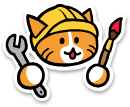
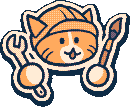
Now using the palette colors for everything

diff --git a/public/style.css b/public/style.css
@@ -1,5 +1,13 @@
 /* Various variables */
 :root {
+	--black: #0d2b45;
+	--col01: #203c56;
+	--col02: #544e68;
+	--col03: #8d697a;
+	--col04: #d08159;
+	--col05: #ffaa5e;
+	--col06: #ffd4a3;
+	--white: #ffecd6;
 }
 
 
@@ -18,12 +26,12 @@ html, body {
 }
 
 body {
-  background-image: url("/media/backtile.png");
-  background-repeat: repeat;
-  background-size: 16px;
-  image-rendering: crisp-edges;
-  color: black;
-  font-family: Verdana;
+	background-image: url("/media/backtile.png");
+	background-repeat: repeat;
+	background-size: 16px;
+	image-rendering: crisp-edges;
+	color: var(--black);
+	font-family: Verdana;
 }
 
 footer {
@@ -43,6 +51,8 @@ footer {
 }
 
 #page-palette {
+	width: 8px;
+
 	position: fixed;
 	left: 0;
 	top: 0;
@@ -51,7 +61,16 @@ footer {
 	display: flex;
 	flex-direction: column;
 
-	border-right: solid black 2px;
+	background: linear-gradient(to bottom, var(--black) 12.5%,
+		var(--col01) 12.5%, var(--col01) 25%,
+		var(--col02) 25%, var(--col02) 37.5%,
+		var(--col03) 37.5%, var(--col03) 50%,
+		var(--col04) 50%, var(--col04) 62.5%,
+		var(--col05) 62.5%, var(--col05) 75%,
+		var(--col06) 75%, var(--col06) 87.5%,
+		var(--white) 87.5%
+	);
+	border-right: solid var(--black) 2px;
 }
 
 .palette-color {
@@ -60,17 +79,19 @@ footer {
 }
 
 #wip-sep {
-	border: solid 2px gray;
-	border-right-color: cornflowerblue;
+	border: solid 2px var(--col02);
+	border-right-color: var(--col03);
 }
 
 #wip-cat {
 	display: block;
 	margin: auto;
+	animation: spin 2s ease 0s infinite normal;
 }
 
 .wip-sign {
 	width: 90%;
+	height: 136px;
 	display: flex;
 	justify-content: center;
 	margin: auto;
@@ -79,8 +100,8 @@ footer {
 }
 
 .back-txt-highlight {
-  padding: 4px 12px;
-  background-color: white;
+	padding: 4px 12px;
+	background-color: var(--white);
 }
 
 .front-col-left {
@@ -98,3 +119,13 @@ footer {
 	width: 45%;
 	text-align: left;
 }
+
+
+
+/* Animations */
+@keyframes spin {
+    100% {
+        transform: rotate(360deg);
+    }
+}
+/* Animations end */

diff --git a/public/index.html b/public/index.html
@@ -9,16 +9,7 @@
   </head>
 
   <body class="body-centered">
-	<div id="page-palette">
-		<div class="palette-color" style="background-color: #0d2b45;"></div>
-		<div class="palette-color" style="background-color: #203c56;"></div>
-		<div class="palette-color" style="background-color: #544e68;"></div>
-		<div class="palette-color" style="background-color: #8d697a;"></div>
-		<div class="palette-color" style="background-color: #d08159;"></div>
-		<div class="palette-color" style="background-color: #ffaa5e;"></div>
-		<div class="palette-color" style="background-color: #ffd4a3;"></div>
-		<div class="palette-color" style="background-color: #ffecd6;"></div>
-	</div>
+	<div id="page-palette"></div>
     <div class="back-txt-highlight wip-sign">
       <div class="front-col-left">
         <h2>Unda kuhstruction</h2>
